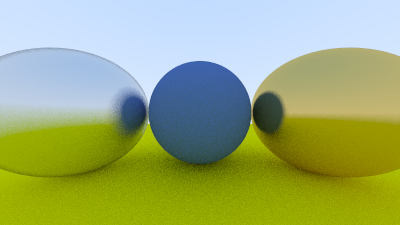
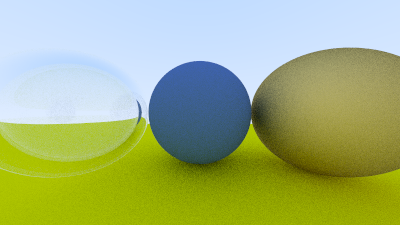
Chapter 11: Add dielectric material implementation and update sphere materials; refactor sphere radius initialization

diff --git a/material.h b/material.h
@@ -56,5 +56,48 @@ public:
 
 private:
     color albedo;
-    double fuzz;
+    double fuzz; // Fuzziness factor (0 = perfect mirror, 1 = very fuzzy)
+};
+
+class dielectric : public material
+{
+public:
+    dielectric(double refraction_index) : refraction_index(refraction_index) {}
+
+    bool scatter(const ray &r_in, const hit_record &rec, color &attenuation, ray &scattered)
+        const override
+    {
+        attenuation = color(1.0, 1.0, 1.0); // Glass doesn't absorb light
+        double refraction_ratio = rec.front_face ? (1.0 / refraction_index) : refraction_index;
+
+        vec3 unit_direction = unit_vector(r_in.direction());
+        double cos_theta = std::fmin(dot(-unit_direction, rec.normal), 1.0);
+        double sin_theta = std::sqrt(1.0 - cos_theta * cos_theta);
+
+        bool cannot_refract = refraction_ratio * sin_theta > 1.0;
+        vec3 direction;
+
+        if (cannot_refract || reflectance(cos_theta, refraction_ratio) > random_double())
+            direction = reflect(unit_direction, rec.normal);
+        else
+            direction = refract(unit_direction, rec.normal, refraction_ratio);
+
+        scattered = ray(rec.p, direction);
+        return true;
+    }
+
+private:
+    // Refraction index of the material or ratio of the material's
+    // refraction index over surrounding refraction index
+    double refraction_index;
+
+    [[nodiscard]] static constexpr double reflectance(double cosine, double refraction_index) noexcept
+    {
+        // Use Schlick's approximation for reflectance.
+        auto r0 = (1.0 - refraction_index) / (1.0 + refraction_index);
+        r0 = r0 * r0;
+        // std::pow is heavy; for an integer power like 5, simple multiplication is faster
+        double x = 1.0 - cosine;
+        return r0 + (1.0 - r0) * (x * x * x * x * x);
+    }
 };

diff --git a/main.cpp b/main.cpp
@@ -22,12 +22,14 @@ int main()
 
     auto material_ground = std::make_shared<lambertian>(color(0.8, 0.8, 0.0));
     auto material_center = std::make_shared<lambertian>(color(0.1, 0.2, 0.5));
-    auto material_left = std::make_shared<metal>(color(0.8, 0.8, 0.8), 0.3);
-    auto material_right = std::make_shared<metal>(color(0.8, 0.6, 0.2), 0.1);
+    auto material_left = std::make_shared<dielectric>(1.50);
+    auto material_bubble = std::make_shared<dielectric>(1.00 / 1.50);
+    auto material_right = std::make_shared<metal>(color(0.8, 0.6, 0.2), 1.0);
 
     world.add(std::make_unique<sphere>(point3(0.0, -100.5, -1.0), 100.0, material_ground)); // Ground
     world.add(std::make_unique<sphere>(point3(0.0, 0.0, -1.2), 0.5, material_center));      // Center sphere
     world.add(std::make_unique<sphere>(point3(-1.0, 0.0, -1.0), 0.5, material_left));       // Left sphere
+    world.add(std::make_unique<sphere>(point3(-1.0, 0.0, -1.0), 0.4, material_bubble));     // Bubble inside left sphere
     world.add(std::make_unique<sphere>(point3(1.0, 0.0, -1.0), 0.5, material_right));       // Right sphere
 
     // Rendering

diff --git a/vec3.h b/vec3.h
@@ -139,3 +139,11 @@ using color = vec3;  // RGB color
 {
     return v - 2 * dot(v, n) * n;
 }
+
+[[nodiscard]] constexpr vec3 refract(const vec3 &uv, const vec3 &n, double etai_over_etat) noexcept
+{
+    auto cos_theta = std::min(dot(-uv, n), 1.0);
+    vec3 r_out_perp = etai_over_etat * (uv + cos_theta * n);
+    vec3 r_out_parallel = -std::sqrt(std::abs(1.0 - r_out_perp.length_squared())) * n;
+    return r_out_perp + r_out_parallel;
+}

diff --git a/sphere.h b/sphere.h
@@ -7,7 +7,7 @@ class sphere : public hittable
 {
 public:
     constexpr sphere(const point3 &center, double radius, std::shared_ptr<material> mat)
-        : center(center), radius(std::fmax(0, radius)), mat(mat) {}
+        : center(center), radius(std::max(0.0, radius)), mat(mat) {}
 
     [[nodiscard]] bool hit(const ray &r, interval ray_t, hit_record &rec) const override
     {
